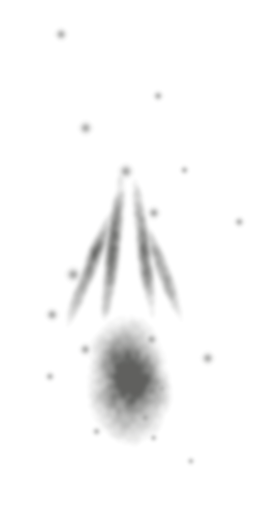
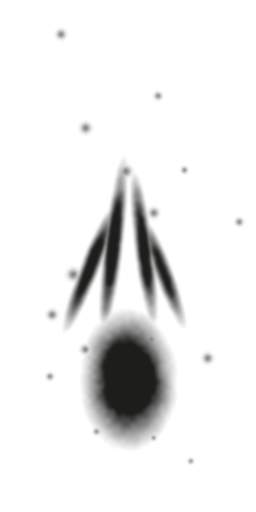
Vapeur visible, traces de la créature visibles, plus de lumière à travers les murs
- Trois fuites de vapeur sur une conduite à hauteur d'homme (la vapeur sortait
  d'un fin tuyau à 2,2 m, invisible), jet plus dense.
- La créature longe les banquettes dans les couloirs (elle ne traverse l'eau
  qu'aux croisements) : ses empreintes mouillées, plus marquées, se voient.
- Les 9 lampes les plus proches projettent des ombres : leur lumière ne passe
  plus à travers les murs sur le sol des allées voisines.
- Carte des égouts du joueur (campement déplacé) recopiée dans maps/.

diff --git a/tools/texture_gen/generate_marks.py b/tools/texture_gen/generate_marks.py
@@ -77,18 +77,18 @@ def wet_print():
     for scale, amp in ((48, 0.5), (16, 0.3), (5, 0.2)):
         n = np.array(Image.fromarray((rnd.random((H // scale + 2, W // scale + 2)) * 255).astype(np.uint8)).resize((W, H), Image.BICUBIC), dtype=np.float32) / 255.0
         noise += n * amp
-    m = np.clip((m * (0.55 + noise) - 0.18) * 1.6, 0, 1)
+    m = np.clip((m * (0.8 + noise * 0.5) - 0.12) * 2.4, 0, 1)
     # gouttes projetées autour
     for _ in range(18):
         x, y = rnd.uniform(15, W - 15), rnd.uniform(15, H - 15)
         r = rnd.uniform(2.0, 5.0)
         m = np.maximum(m, np.exp(-((xx - x) ** 2 + (yy - y) ** 2) / (r * r)) * 0.6)
-    m = np.array(Image.fromarray((m * 255).astype(np.uint8)).filter(ImageFilter.GaussianBlur(1.6)), dtype=np.float32) / 255.0
-    alpha = (np.clip(m, 0, 1) * 170).astype(np.uint8)  # jamais opaque : le béton reste visible dessous
+    m = np.array(Image.fromarray((m * 255).astype(np.uint8)).filter(ImageFilter.GaussianBlur(1.0)), dtype=np.float32) / 255.0
+    alpha = (np.clip(m, 0, 1) * 235).astype(np.uint8)
     rgba = np.zeros((H, W, 4), dtype=np.uint8)
-    rgba[..., 0] = 16
-    rgba[..., 1] = 17
-    rgba[..., 2] = 14
+    rgba[..., 0] = 10
+    rgba[..., 1] = 11
+    rgba[..., 2] = 9
     rgba[..., 3] = alpha
     Image.fromarray(rgba, "RGBA").save(os.path.join(OUT, "decal_wet_print.png"))
     orm = np.zeros((H, W, 4), dtype=np.uint8)

diff --git a/docs/claude/NOTES.md b/docs/claude/NOTES.md
@@ -143,7 +143,13 @@ Keep it current — add a line whenever you learn something non-obvious. History
   wet prints (decal_wet_print + _orm) every 0.8 m on walkways, fade 45–110 s, max 70. Audio: zone reverb
   (_zone_audio: vaults long, cistern huge, galleries dry/metallic), creature sounds on bus "Creature"
   (Sound.play_at(..., parent, bus)) low-passed when no line of sight and masked near the steam leak.
-  Lens fogs when entering the cistern; running in water may splash the lens. Sewer is darker (ambient 0.13,
+  Lens fogs when entering the cistern; running in water may splash the lens.
+- Steam leaks (STEAM_LEAKS, 3 in the technical galleries) sit on a dedicated insulated pipe at 1.48 m with a
+  leaking flange (the zone-C wall pipes are at 2.2 m, nobody saw the steam up there). _steam_dist() = nearest leak.
+- nav_path() walks the creature on a LEDGE (0.72 m off the channel, same side most of the time) in straight
+  channel corridors: it only wades at junctions, so its wet prints are actually seen (they're skipped in water).
+- _lamp_shadows(): the 9 lamps nearest to Théo get shadows (every 0.4 s); without shadows the omni lights shone
+  through walls onto the wet floor of the next corridor. Cost ≈ 210 → 182 fps at 1080p on the dev PC. Sewer is darker (ambient 0.13,
   lamps ×0.7, gain 0.45).
 
 ## Testing

diff --git a/docs/claude/HISTORIQUE.md b/docs/claude/HISTORIQUE.md
@@ -58,6 +58,11 @@ il s'échappe par la surface (forêt) à l'aube… où une caméra sur un poteau
 12. Retour : « les nouveaux bruits de pas j'adore », mais pas ceux dans l'eau → remplacés par une marche dans
    l'eau peu profonde (on brasse l'eau). La créature flottait encore au galop → recalage image par image.
    Elle piétinait ~0,5 s en s'arrêtant à sa première apparition → animation pilotée par la vitesse réelle.
+13. L'égoutier ne touchait pas le sol avec ses fesses (posé sur une main) → posé par le bassin ; l'indice du micro
+   sortait de l'écran → retour à la ligne. Puis : on ne voyait pas la vapeur (fin tuyau à 2,2 m) → 3 fuites sur
+   une conduite à hauteur d'homme ; on ne voyait pas les traces de la créature (elle marchait dans l'eau) → elle
+   longe les banquettes ; la lumière des allées voisines se reflétait à travers les murs → ombres sur les lampes
+   proches. Carte des égouts du joueur (campement déplacé le 24/10) recopiée dans maps/.
 
 ## État actuel
 - Jeu complet et jouable de bout en bout (route → maison → égouts → forêt), environ 30-45 min.
